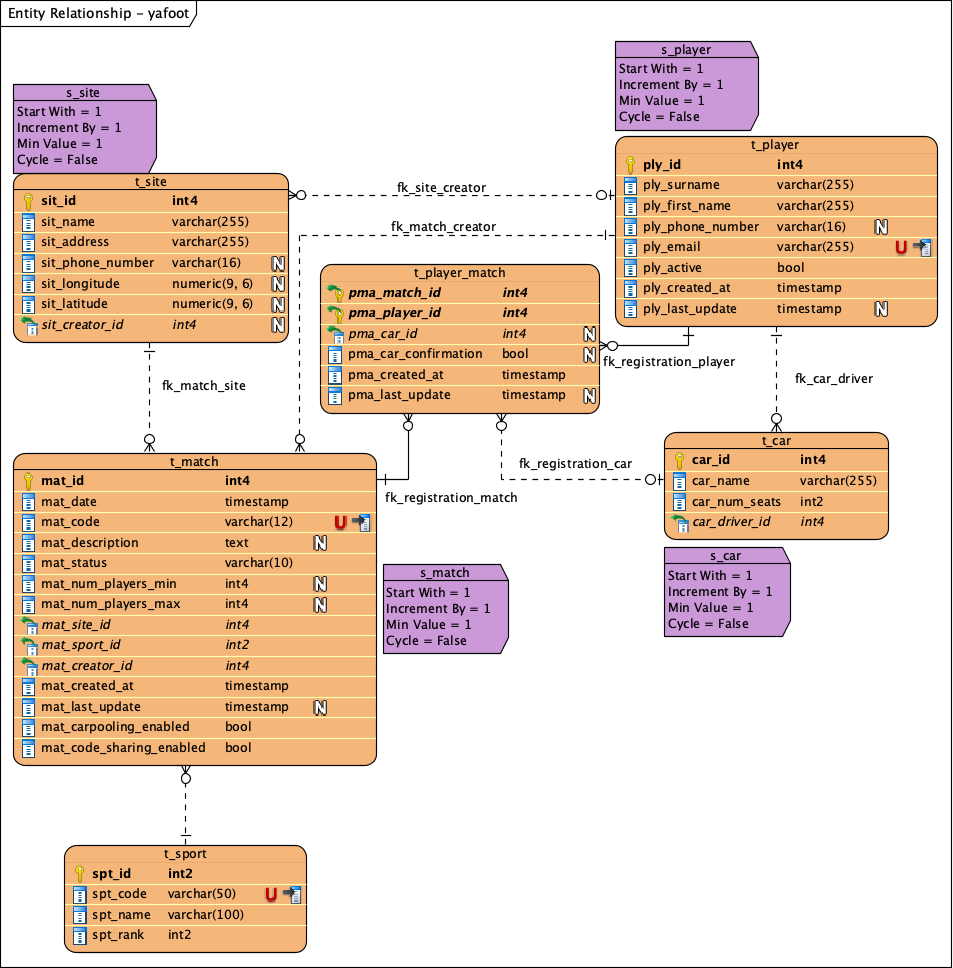
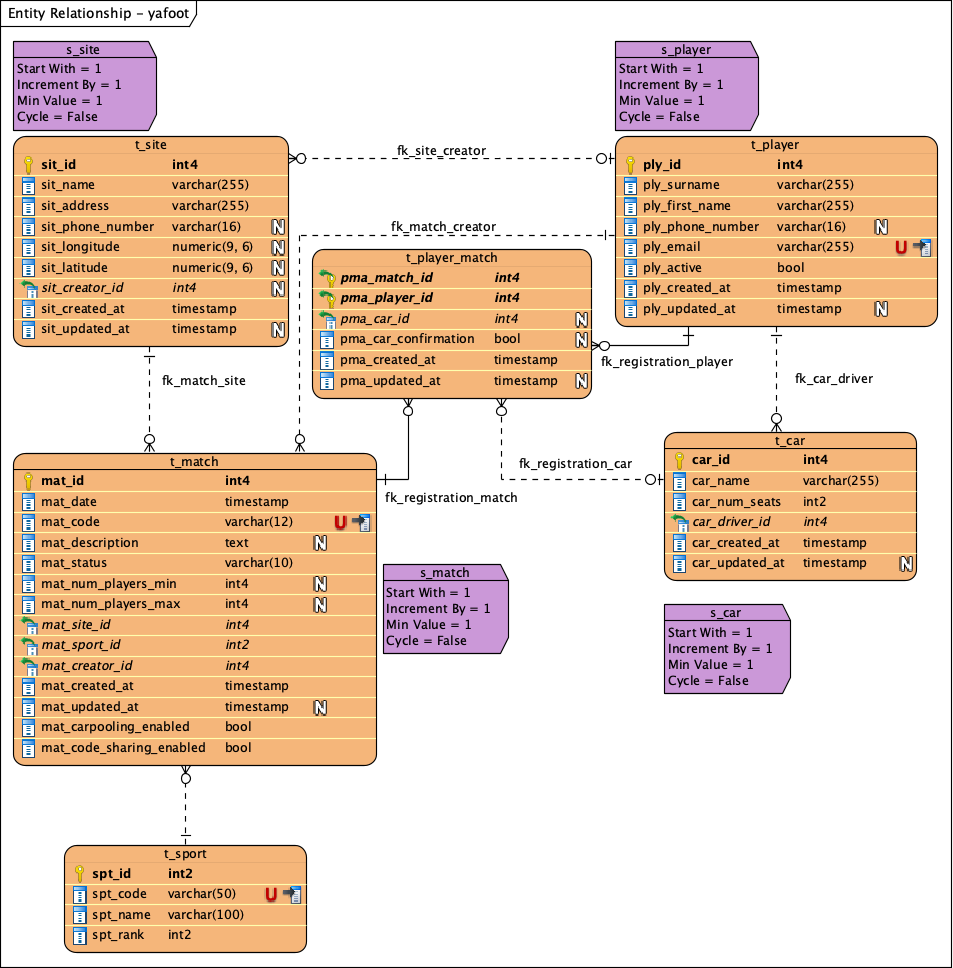
Harmonised audit column names in database

diff --git a/y-a-foot-core-api/src/main/java/net/andresbustamante/yafoot/core/model/Site.java b/y-a-foot-core-api/src/main/java/net/andresbustamante/yafoot/core/model/Site.java
@@ -5,11 +5,13 @@ import lombok.Getter;
 import lombok.NoArgsConstructor;
 import lombok.Setter;
 import lombok.ToString;
+import net.andresbustamante.yafoot.commons.model.Auditable;
 import net.andresbustamante.yafoot.commons.model.GpsCoordinates;
 import net.andresbustamante.yafoot.commons.model.Identifiable;
 import net.andresbustamante.yafoot.commons.model.Locatable;
 
 import java.io.Serializable;
+import java.time.OffsetDateTime;
 
 /**
  * A site where a match can be played.
@@ -18,7 +20,7 @@ import java.io.Serializable;
  */
 @Getter @Setter @NoArgsConstructor
 @EqualsAndHashCode(of = {"id"}) @ToString(of = "id")
-public final class Site implements Locatable, Identifiable<Integer>, Serializable {
+public final class Site implements Locatable, Identifiable<Integer>, Auditable, Serializable {
 
     private static final long serialVersionUID = 1L;
     private Integer id;
@@ -26,6 +28,8 @@ public final class Site implements Locatable, Identifiable<Integer>, Serializabl
     private String address;
     private String phoneNumber;
     private GpsCoordinates location;
+    private OffsetDateTime creationDate;
+    private OffsetDateTime lastUpdateDate;
 
     /**
      * Constructor for testing purposes only.

diff --git a/y-a-foot-core-api/src/main/java/net/andresbustamante/yafoot/core/model/Car.java b/y-a-foot-core-api/src/main/java/net/andresbustamante/yafoot/core/model/Car.java
@@ -5,9 +5,11 @@ import lombok.Getter;
 import lombok.NoArgsConstructor;
 import lombok.Setter;
 import lombok.ToString;
+import net.andresbustamante.yafoot.commons.model.Auditable;
 import net.andresbustamante.yafoot.commons.model.Identifiable;
 
 import java.io.Serializable;
+import java.time.OffsetDateTime;
 
 /**
  * A car used to go to a match.
@@ -16,7 +18,7 @@ import java.io.Serializable;
  */
 @Getter @Setter @NoArgsConstructor
 @EqualsAndHashCode(of = {"id"}) @ToString(of = {"id"})
-public final class Car implements Serializable, Identifiable<Integer> {
+public final class Car implements Serializable, Identifiable<Integer>, Auditable {
 
     private static final long serialVersionUID = 1L;
     private Integer id;
@@ -30,6 +32,8 @@ public final class Car implements Serializable, Identifiable<Integer> {
      */
     private Integer numPassengers;
     private Player driver;
+    private OffsetDateTime creationDate;
+    private OffsetDateTime lastUpdateDate;
 
     /**
      * Constructor for testing purposes only.

diff --git a/y-a-foot-core-web/src/main/java/net/andresbustamante/yafoot/core/web/mappers/CarMapper.java b/y-a-foot-core-web/src/main/java/net/andresbustamante/yafoot/core/web/mappers/CarMapper.java
@@ -4,6 +4,7 @@ import net.andresbustamante.yafoot.commons.web.mappers.StringMapper;
 import net.andresbustamante.yafoot.commons.web.config.SpringMapperConfig;
 import net.andresbustamante.yafoot.core.model.Car;
 import org.mapstruct.Mapper;
+import org.mapstruct.Mapping;
 
 import java.util.List;
 
@@ -16,6 +17,8 @@ public interface CarMapper {
      * @param car DTO to map
      * @return Resulting car bean
      */
+    @Mapping(target = "creationDate", ignore = true)
+    @Mapping(target = "lastUpdateDate", ignore = true)
     Car map(net.andresbustamante.yafoot.web.dto.Car car);
 
     /**

diff --git a/y-a-foot-core-web/src/main/java/net/andresbustamante/yafoot/core/web/mappers/SiteMapper.java b/y-a-foot-core-web/src/main/java/net/andresbustamante/yafoot/core/web/mappers/SiteMapper.java
@@ -3,6 +3,7 @@ package net.andresbustamante.yafoot.core.web.mappers;
 import net.andresbustamante.yafoot.commons.web.config.SpringMapperConfig;
 import net.andresbustamante.yafoot.core.model.Site;
 import org.mapstruct.Mapper;
+import org.mapstruct.Mapping;
 
 import java.util.List;
 
@@ -15,6 +16,8 @@ public interface SiteMapper {
      * @param site Site form data to map
      * @return Site bean
      */
+    @Mapping(target = "creationDate", ignore = true)
+    @Mapping(target = "lastUpdateDate", ignore = true)
     Site map(net.andresbustamante.yafoot.web.dto.Site site);
 
     /**
